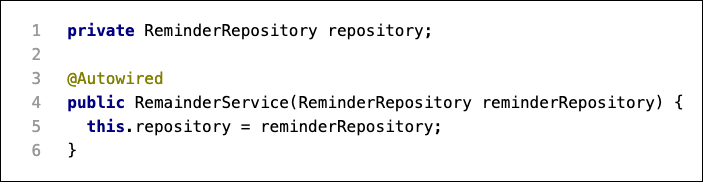
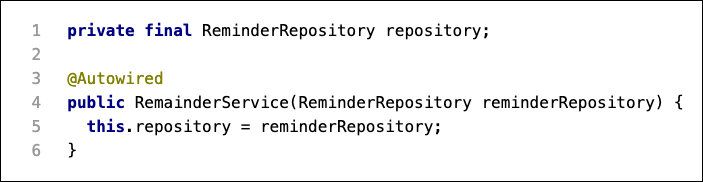
説明書きの修正、リファクタリング

Changed region(s): [[0.2091, 0.1099, 0.7169, 0.2198]]

diff --git a/src/main/java/com/example/linebot/Callback.java b/src/main/java/com/example/linebot/Callback.java
@@ -25,20 +25,11 @@ public class Callback {
 
   private static final Logger log = LoggerFactory.getLogger(Callback.class);
 
-  private final LineBlobClient blobClient;
-
   private final RemainderService remainderService;
 
   @Autowired
-  public Callback(LineBlobClient blobClient, RemainderService remainderService) {
-    this.blobClient = blobClient;
+  public Callback(RemainderService remainderService) {
     this.remainderService = remainderService;
-  }
-
-  // マッピングされていないEventに対応する
-  @EventMapping
-  public void handleEvent(Event event) {
-    System.out.println("event: " + event);
   }
 
   // フォローイベントに対応する
@@ -86,43 +77,6 @@ public class Callback {
         Parrot parrot = new Parrot(event);
         return parrot.reply();
     }
-  }
-
-  // PostBackEventに対応する
-  @EventMapping
-  public Message handlePostBack(PostbackEvent event) {
-    DialogAnswer dialogAnswer = new DialogAnswer(event);
-    return dialogAnswer.reply();
-  }
-
-  // 画像のメッセージイベントに対応する
-  @EventMapping
-  public Message handleImg(MessageEvent<ImageMessageContent> event) {
-    // 画像メッセージのidを取得する
-    String msgId = event.getMessage().getId();
-    Optional<MessageContentResponse> resp = getContentResponse(msgId);
-    return resp
-      .map(HandleImage::new)
-      .map(HandleImage::reply)
-      .orElseGet(() -> new TextMessage("ファイル読み込みNG"));
-  }
-
-  public Optional<MessageContentResponse> getContentResponse(String msgId) {
-    //  ②メッセージのidを使って MessageContentResponse を取得する
-    try (MessageContentResponse resp = blobClient.getMessageContent(msgId).get()) {
-      log.info("get content{}:", resp);
-      return Optional.of(resp);
-    } catch (InterruptedException | ExecutionException | IOException e) {
-      e.printStackTrace();
-    }
-    return Optional.empty();
-  }
-
-  // BeaconEventに対応する
-  @EventMapping
-  public Message handleBeacon(BeaconEvent event) {
-    BeaconInfo beaconInfo = new BeaconInfo(event);
-    return beaconInfo.reply();
   }
 
 }

diff --git a/src/main/java/com/example/linebot/service/RemainderService.java b/src/main/java/com/example/linebot/service/RemainderService.java
@@ -12,7 +12,7 @@ import org.springframework.stereotype.Service;
 @Service
 public class RemainderService {
 
-  private ReminderRepository repository;
+  private final ReminderRepository repository;
 
   @Autowired
   public RemainderService(ReminderRepository reminderRepository) {

diff --git a/claat/Reminder/ReminderOn.md b/claat/Reminder/ReminderOn.md
@@ -384,4 +384,36 @@ git push
 
 なお、ここまでの内容が反映された、ReminderService のクラス図は次の様になる。
 
-![ReminderRepository の 利用](RO1004.png)
+![ReminderService の 最終的なクラス図](RO1004.png)
+
+また、Callback, ReminderService, ReminderRepositoryの呼び出しの関係は、次の様になる。
+
+![各クラス間の呼び出し関係](RO1005.png)
+
+### 動作確認
+
+LINEBot としてプログラムを起動し、 **12:15に昼食**　や、 **こんにちは** などを送信してみる。
+
+![動作確認3](RO0804.png)
+
+動作は、データベースに接続する前と変わらない。
+
+ただし今回は、データベースのテーブルに組が追加されているはずである。
+
+IntelliJ IDEAのクエリコンソールから、検索クエリを実行し、テーブルの内容を確認する。
+
+```sql
+select * from reminder_item;
+```
+
+
+
+### Classroom に commit / push
+
+Negative
+: 自分の Classroom 用のフォルダに移動して実行してください
+
+```shell
+git commit -m "課題4-10まで完了"
+git push 
+```

diff --git a/claat/Reminder/RO_code.md b/claat/Reminder/RO_code.md
@@ -231,7 +231,7 @@ import com.example.linebot.repository.ReminderRepository;
 
 
 ```java
-  private ReminderRepository repository;
+  private final ReminderRepository repository;
 
   @Autowired
   public RemainderService(ReminderRepository reminderRepository) {
